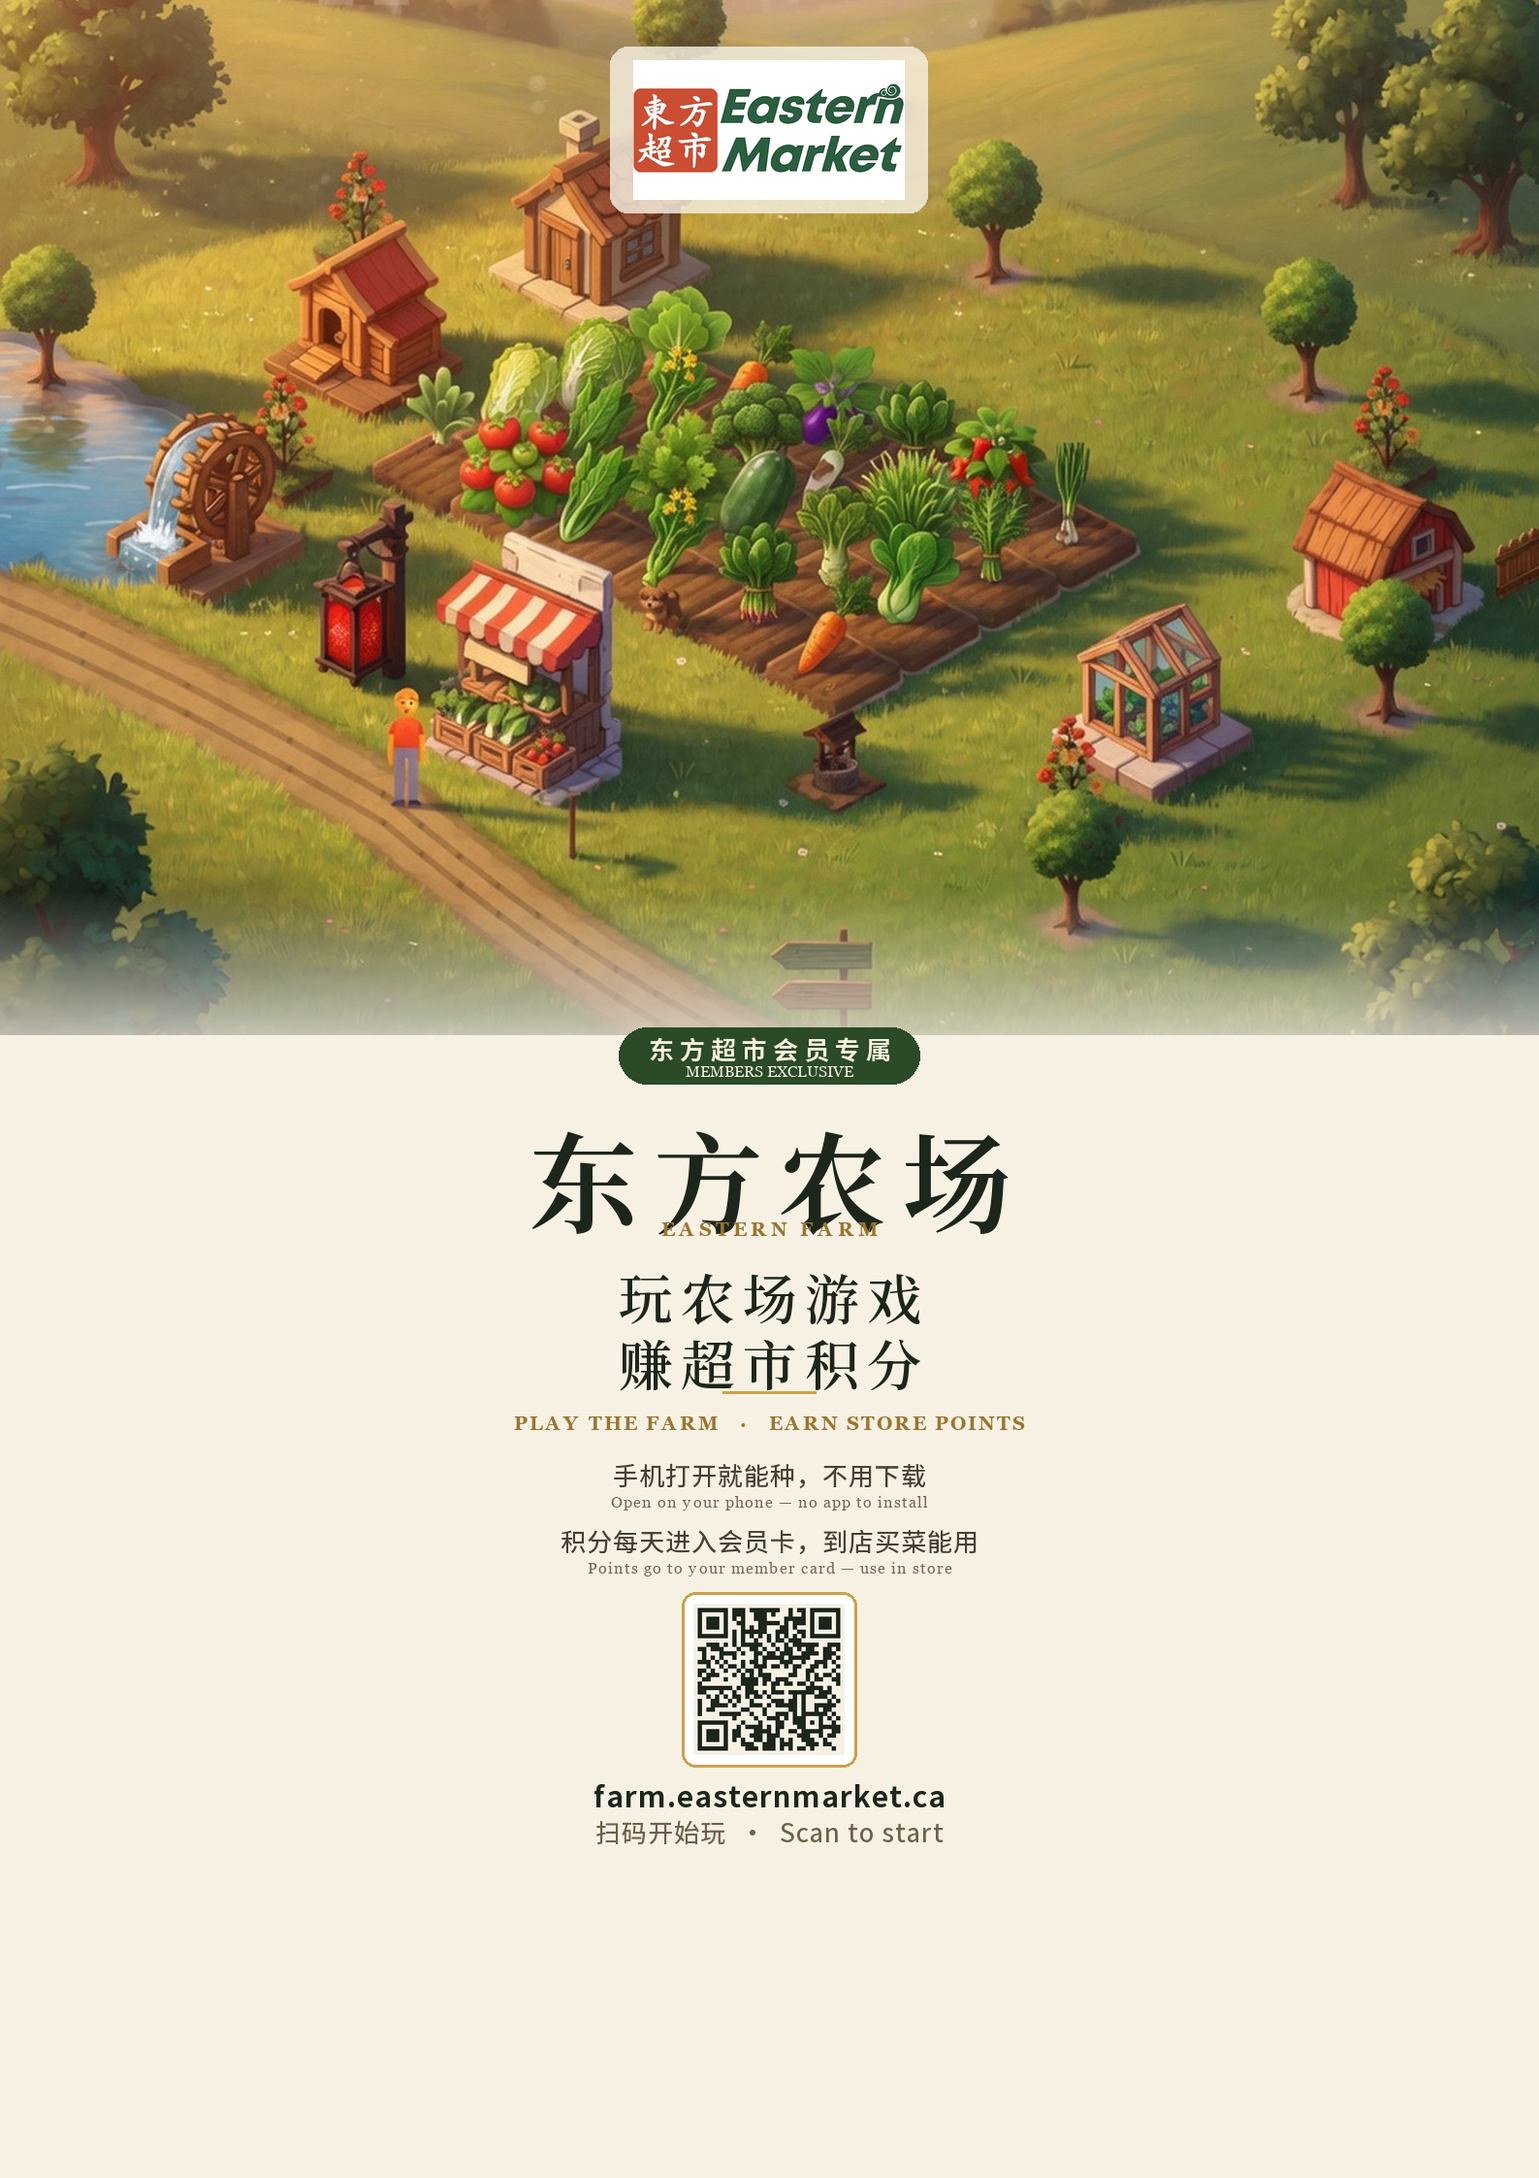
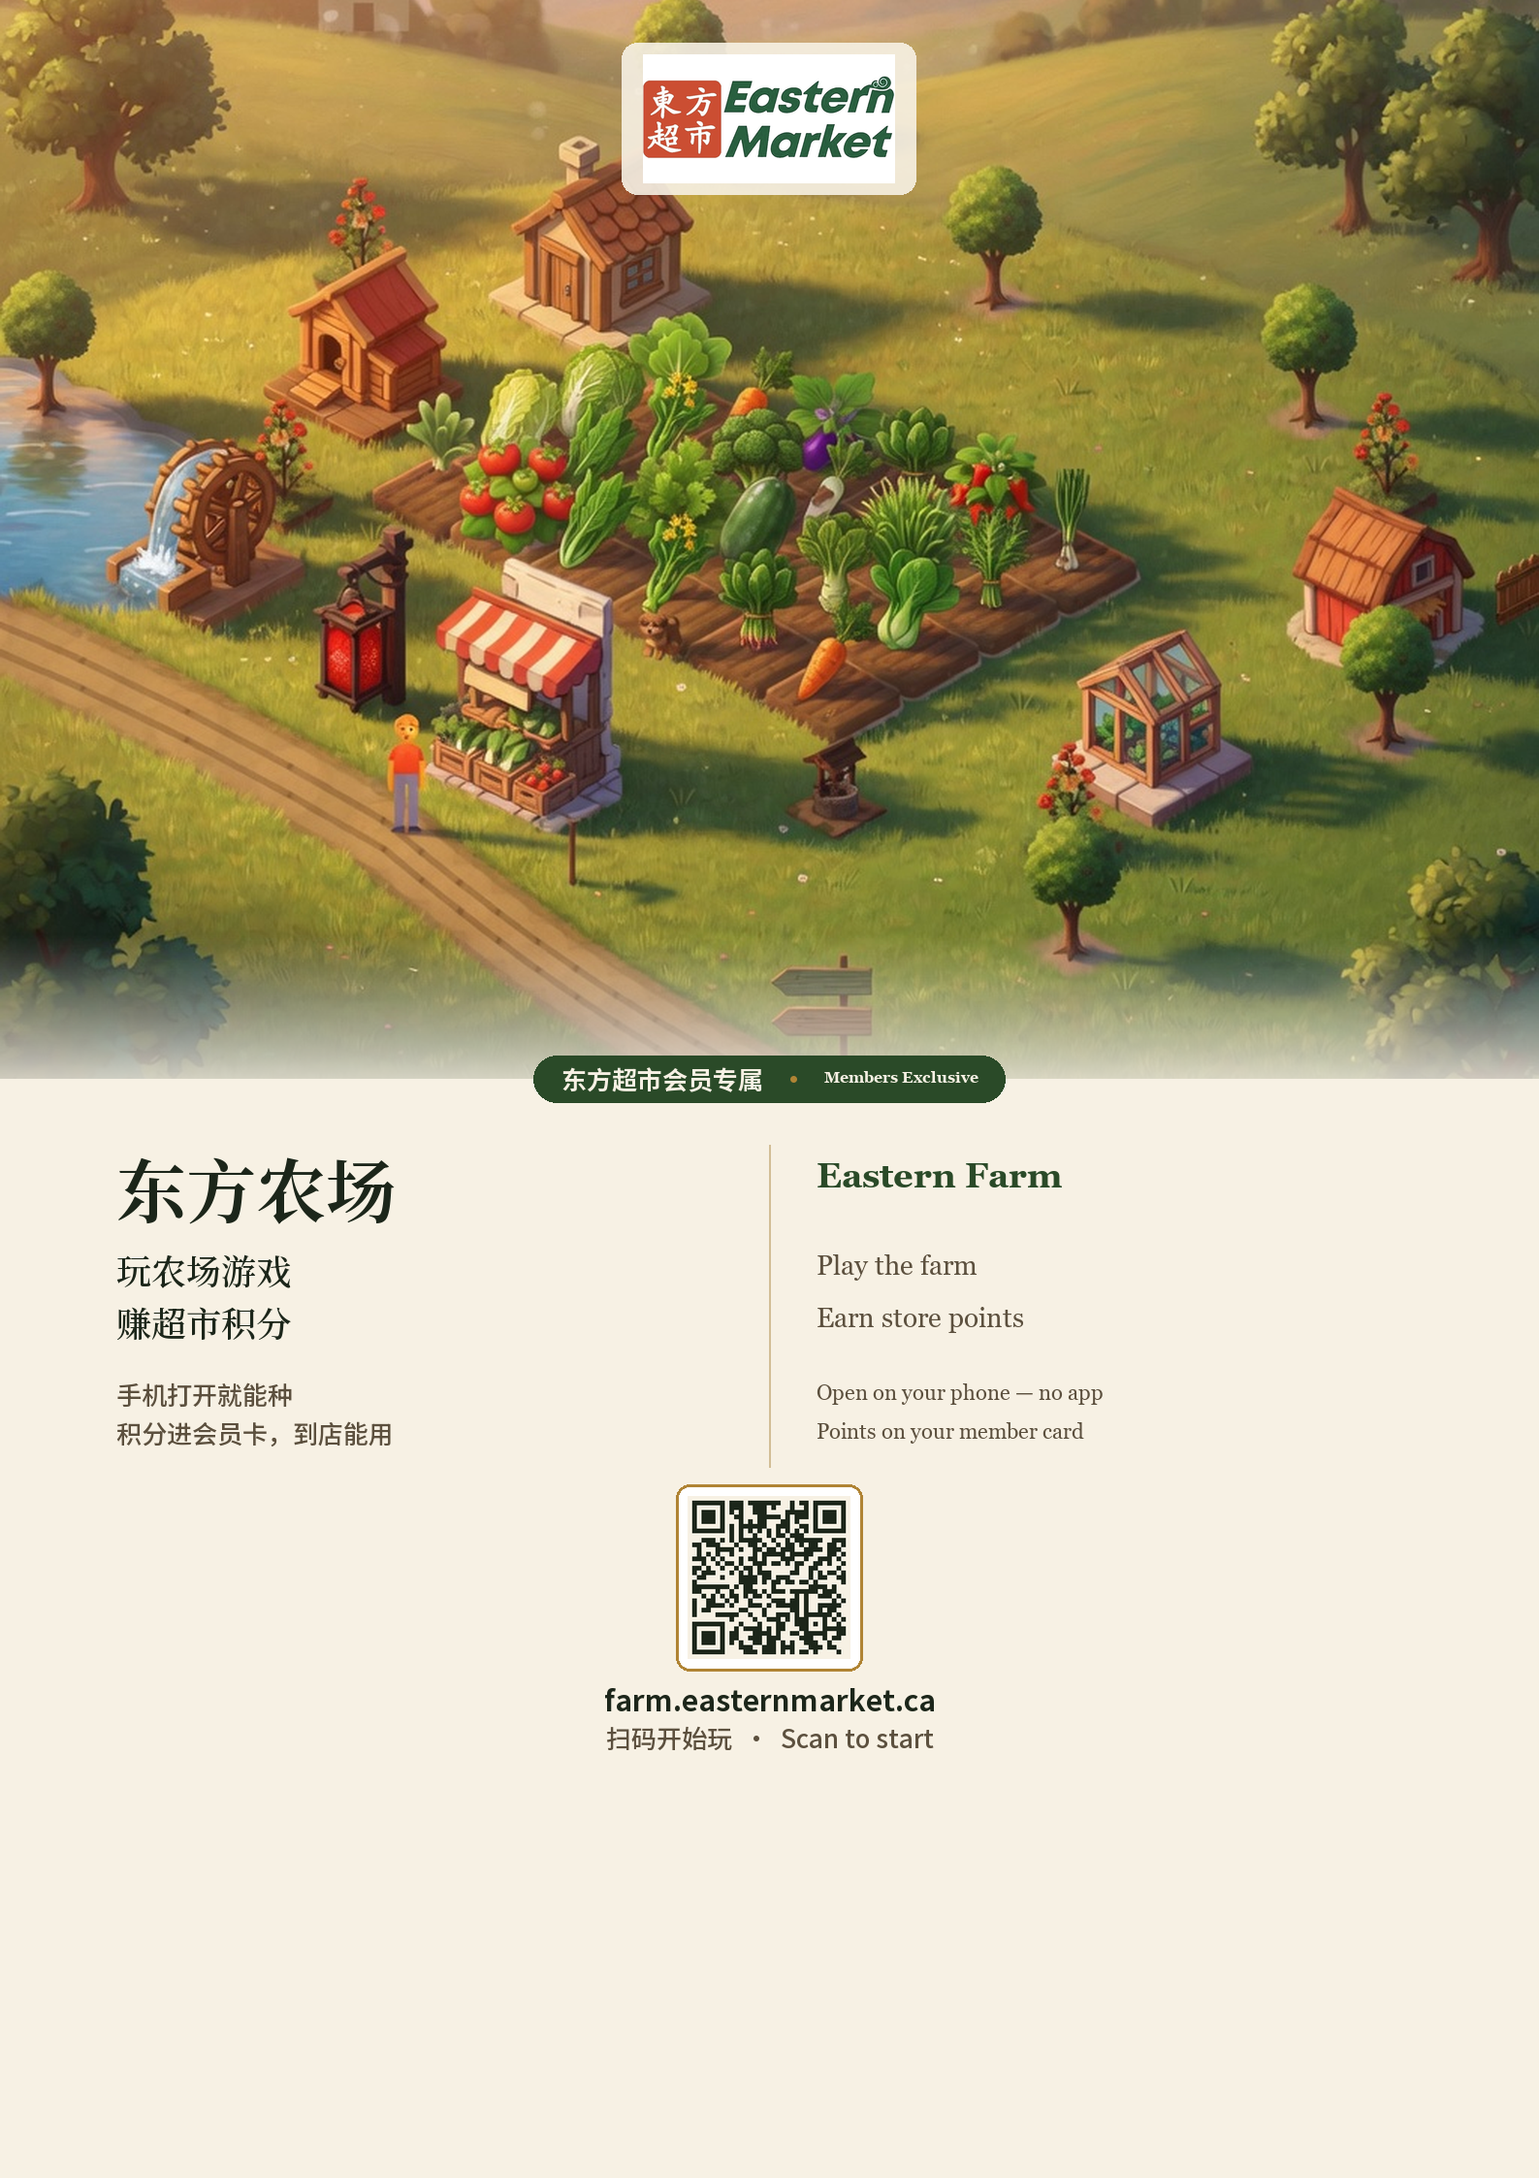
海报双语重排：手机一文一译，A4 中英左右对照

diff --git a/scripts/_make_phone_poster.py b/scripts/_make_phone_poster.py
@@ -1,6 +1,6 @@
 #!/usr/bin/env python3
-"""Editorial phone + A4 posters. Exact copy, painted on the keyart."""
-from PIL import Image, ImageDraw, ImageFont, ImageFilter
+"""Bilingual posters: Chinese and English as designed partners, not stacked subtitles."""
+from PIL import Image, ImageDraw, ImageFont
 import io
 import os
 import segno
@@ -17,11 +17,11 @@ SANS_BD = r'C:\Windows\Fonts\msyhbd.ttc'
 GEORGIA = r'C:\Windows\Fonts\georgiab.ttf'
 GEORGIA_R = r'C:\Windows\Fonts\georgia.ttf'
 
-CREAM = (246, 239, 224)
+CREAM = (247, 241, 228)
 INK = (28, 38, 26)
-GOLD = (201, 162, 74)
-GOLD_SOFT = (212, 184, 122)
-DUSK = (22, 28, 18)
+GOLD = (176, 132, 52)
+FOREST = (42, 74, 40)
+MUTED = (92, 80, 62)
 
 
 def vf(path, size, weight=500, fallback=None):
@@ -46,53 +46,31 @@ def cover(im, tw, th, bias_y=0):
     return im.crop((x, y, x + tw, y + th))
 
 
-def spaced(draw, text, y, font, fill, tracking, canvas_w, shadow=None):
-    widths = []
-    for ch in text:
-        b = draw.textbbox((0, 0), ch, font=font)
-        widths.append(b[2] - b[0])
+def tw(draw, text, font):
+    b = draw.textbbox((0, 0), text, font=font)
+    return b[2] - b[0], b[3] - b[1]
+
+
+def center(draw, text, y, font, fill, canvas_w):
+    w, _ = tw(draw, text, font)
+    draw.text(((canvas_w - w) / 2, y), text, font=font, fill=fill)
+
+
+def spaced_center(draw, text, y, font, fill, tracking, canvas_w):
+    widths = [tw(draw, ch, font)[0] for ch in text]
     total = sum(widths) + tracking * max(0, len(text) - 1)
     x = (canvas_w - total) / 2
     for ch, w in zip(text, widths):
-        if shadow:
-            draw.text((x + shadow[0], y + shadow[1]), ch, font=font, fill=shadow[2])
         draw.text((x, y), ch, font=font, fill=fill)
         x += w + tracking
-    return total
 
 
-def hairline(draw, cx, y, half, color, width=2):
-    draw.line([(cx - half, y), (cx + half, y)], fill=color, width=width)
-
-
-def badge(draw, zh, en, y, zh_font, en_font, canvas_w, fg, bg, tracking=6, pad_x=28, pad_y=8):
-    """Two-line (zh + en) high-contrast pill. Returns y just below it."""
-    widths = []
-    for ch in zh:
-        b = draw.textbbox((0, 0), ch, font=zh_font)
-        widths.append(b[2] - b[0])
-    tw_zh = sum(widths) + tracking * max(0, len(zh) - 1)
-    eb = draw.textbbox((0, 0), en, font=en_font)
-    tw_en = eb[2] - eb[0]
-    zb = draw.textbbox((0, 0), zh[0], font=zh_font)
-    th_zh = zb[3] - zb[1]
-    th_en = eb[3] - eb[1]
-    w = max(tw_zh, tw_en) + pad_x * 2
-    h = th_zh + th_en + pad_y * 2 + 4
-    x = (canvas_w - w) / 2
-    draw.rounded_rectangle([x, y, x + w, y + h], radius=h / 2, fill=bg)
-    spaced(draw, zh, y + pad_y - 2, zh_font, fg, tracking, canvas_w)
-    draw.text(((canvas_w - tw_en) / 2, y + pad_y + th_zh + 2), en, font=en_font, fill=fg)
-    return y + h
-
-
-def make_qr(px, dark='#1c261a', light='#f6efe0'):
+def make_qr(px, dark='#1c261a', light='#f7f1e4'):
     buf = io.BytesIO()
     segno.make('https://farm.easternmarket.ca/', error='h').save(
         buf, kind='png', scale=10, border=1, dark=dark, light=light)
     buf.seek(0)
-    qr = Image.open(buf).convert('RGBA')
-    return qr.resize((px, px), Image.Resampling.LANCZOS)
+    return Image.open(buf).convert('RGBA').resize((px, px), Image.Resampling.LANCZOS)
 
 
 def paste_logo(canvas, w, top, max_w):
@@ -100,66 +78,79 @@ def paste_logo(canvas, w, top, max_w):
     lw = max_w
     lh = int(logo.height * lw / logo.width)
     logo = logo.resize((lw, lh), Image.Resampling.LANCZOS)
-    # soft plate so the mark reads on any sky, without a chunky white card
-    plate = Image.new('RGBA', (lw + 48, lh + 28), (0, 0, 0, 0))
+    plate = Image.new('RGBA', (lw + 44, lh + 24), (0, 0, 0, 0))
     pd = ImageDraw.Draw(plate)
     pd.rounded_rectangle([0, 0, plate.width - 1, plate.height - 1],
-                         radius=18, fill=(246, 239, 224, 210))
-    blurred = plate.filter(ImageFilter.GaussianBlur(0.4))
+                         radius=16, fill=(247, 241, 228, 230))
     px = (w - plate.width) // 2
-    canvas.paste(blurred, (px, top), blurred)
-    canvas.paste(logo, (px + 24, top + 14), logo)
+    canvas.paste(plate, (px, top), plate)
+    canvas.paste(logo, (px + 22, top + 12), logo)
     return top + plate.height
 
 
 def phone():
     W, H = 1080, 1920
-    art = cover(Image.open(ART).convert('RGB'), W, H, bias_y=20).convert('RGBA')
-
-    wash = Image.new('RGBA', (W, H), (0, 0, 0, 0))
-    d = ImageDraw.Draw(wash)
-    for i in range(260):
-        a = int(80 * (1 - i / 260) ** 1.4)
-        d.line([(0, i), (W, i)], fill=(255, 232, 200, a))
-    # 字落在独立的暮色带上，不跟路牌抢
-    band = 840
-    for i in range(band):
-        t = i / (band - 1)
-        a = int(10 + 250 * (t ** 1.15))
-        d.line([(0, H - band + i), (W, H - band + i)], fill=(16, 22, 12, a))
-    canvas = Image.alpha_composite(art, wash)
-    paste_logo(canvas, W, 42, 248)
+    art_h = 1360
+    canvas = Image.new('RGB', (W, H), CREAM)
+    art = cover(Image.open(ART).convert('RGB'), W, art_h + 90, bias_y=30)
+    canvas.paste(art, (0, 0))
+    fade = Image.new('RGBA', (W, H), (0, 0, 0, 0))
+    d = ImageDraw.Draw(fade)
+    for i in range(160):
+        a = int(255 * (i / 159) ** 1.15)
+        d.line([(0, art_h - 70 + i), (W, art_h - 70 + i)], fill=CREAM + (a,))
+    canvas = Image.alpha_composite(canvas.convert('RGBA'), fade)
+    paste_logo(canvas, W, 40, 236)
 
     draw = ImageDraw.Draw(canvas)
-    name = vf(SERIF, 86, 650)
-    title = vf(SERIF, 46, 560)
-    kick_f = vf(SANS, 22, 620, SANS_BD)
-    en = ImageFont.truetype(GEORGIA, 16)
-    en_sm = ImageFont.truetype(GEORGIA_R, 14)
-    meta = vf(SANS, 22, 500, SANS_BD)
-    meta_en = ImageFont.truetype(GEORGIA_R, 15)
-    urlf = vf(SANS, 26, 620, SANS_BD)
+    name = vf(SERIF, 78, 660)
+    line = vf(SERIF, 36, 540)
+    kick_zh = vf(SANS, 22, 650, SANS_BD)
+    kick_en = ImageFont.truetype(GEORGIA, 15)
+    en = ImageFont.truetype(GEORGIA, 18)
+    en_i = ImageFont.truetype(GEORGIA_R, 16)
+    meta = vf(SANS, 24, 560, SANS_BD)
+    urlf = vf(SANS, 24, 650, SANS_BD)
 
-    by = badge(draw, '东方超市会员专属', 'MEMBERS EXCLUSIVE', H - 728, kick_f, en_sm, W, INK, CREAM, tracking=5)
-    spaced(draw, '东方农场', by + 14, name, CREAM, 14, W, shadow=(0, 3, (0, 0, 0, 120)))
-    spaced(draw, 'EASTERN FARM', by + 108, en, GOLD_SOFT, 3, W)
-    spaced(draw, '玩农场游戏', by + 144, title, CREAM, 6, W)
-    spaced(draw, '赚超市积分', by + 200, title, CREAM, 6, W)
-    hairline(draw, W // 2, by + 262, 40, GOLD, 2)
-    spaced(draw, 'PLAY THE FARM   ·   EARN STORE POINTS', by + 278, en, GOLD_SOFT, 2, W)
+    y = art_h + 8
+    # one bilingual kicker, zh · en on one pill
+    kicker = '东方超市会员专属   ·   Members Exclusive'
+    kw, kh = tw(draw, kicker, kick_zh)
+    # measure with mixed fonts roughly via zh font width
+    pad_x, pad_y = 22, 10
+    kw, _ = tw(draw, '东方超市会员专属   ·   Members Exclusive', kick_zh)
+    # tighter: draw as two parts
+    zh_w, zh_h = tw(draw, '东方超市会员专属', kick_zh)
+    mid_w, _ = tw(draw, '  ·  ', kick_zh)
+    en_w, en_h = tw(draw, 'Members Exclusive', kick_en)
+    bw = zh_w + mid_w + en_w + pad_x * 2
+    bh = max(zh_h, en_h) + pad_y * 2
+    bx = (W - bw) / 2
+    draw.rounded_rectangle([bx, y, bx + bw, y + bh], radius=bh / 2, fill=FOREST)
+    cx = bx + pad_x
+    cy = y + pad_y - 2
+    draw.text((cx, cy), '东方超市会员专属', font=kick_zh, fill=CREAM)
+    draw.text((cx + zh_w, cy), '  ·  ', font=kick_zh, fill=GOLD)
+    draw.text((cx + zh_w + mid_w, cy + 3), 'Members Exclusive', font=kick_en, fill=CREAM)
 
-    qr = make_qr(148)
-    qx, qy = 88, H - 236
-    draw.rounded_rectangle([qx - 10, qy - 10, qx + 148 + 10, qy + 148 + 10],
-                           radius=16, fill=CREAM)
+    y = y + bh + 22
+    spaced_center(draw, '东方农场', y, name, INK, 14, W)
+    center(draw, 'Eastern Farm', y + 92, en, GOLD, W)
+    draw.line([(W / 2 - 36, y + 128), (W / 2 + 36, y + 128)], fill=GOLD, width=2)
+    spaced_center(draw, '玩农场游戏，赚超市积分', y + 148, line, INK, 4, W)
+    center(draw, 'Play the farm. Earn store points.', y + 200, en_i, MUTED, W)
+
+    qr = make_qr(132)
+    qy = y + 248
+    qx = 88
+    draw.rounded_rectangle([qx - 8, qy - 8, qx + 132 + 8, qy + 132 + 8],
+                           radius=12, fill=(255, 255, 255), outline=GOLD, width=2)
     canvas.paste(qr, (qx, qy), qr)
-
-    tx = 272
-    draw.text((tx, H - 228), '扫码即玩', font=meta, fill=CREAM)
-    draw.text((tx, H - 200), 'Scan to play', font=meta_en, fill=GOLD_SOFT)
-    draw.text((tx, H - 168), 'farm.easternmarket.ca', font=urlf, fill=GOLD_SOFT)
-    draw.text((tx, H - 128), '积分每天进会员卡，到店可用', font=meta, fill=(214, 206, 188))
-    draw.text((tx, H - 100), 'Points go to your member card daily', font=meta_en, fill=(190, 178, 158))
+    tx = 250
+    draw.text((tx, qy + 6), '扫码即玩  ·  Scan to play', font=meta, fill=INK)
+    draw.text((tx, qy + 44), 'farm.easternmarket.ca', font=urlf, fill=FOREST)
+    draw.text((tx, qy + 82), '积分进会员卡，到店可用', font=meta, fill=MUTED)
+    draw.text((tx, qy + 112), 'Points on your member card', font=en_i, fill=MUTED)
 
     rgb = canvas.convert('RGB')
     rgb.save(OUT_PHONE, 'PNG', optimize=True)
@@ -169,52 +160,70 @@ def phone():
 
 
 def a4():
-    # ~190 dpi A4, matches the previous print size
     W, H = 1587, 2245
-    art_h = int(H * 0.44)
-    canvas = Image.new('RGB', (W, H), (247, 241, 228))
-    art = cover(Image.open(ART).convert('RGB'), W, art_h + 80, bias_y=40)
+    art_h = int(H * 0.46)
+    canvas = Image.new('RGB', (W, H), CREAM)
+    art = cover(Image.open(ART).convert('RGB'), W, art_h + 80, bias_y=36)
     canvas.paste(art, (0, 0))
-
     fade = Image.new('RGBA', (W, H), (0, 0, 0, 0))
     d = ImageDraw.Draw(fade)
-    for i in range(200):
-        a = int(255 * (i / 199) ** 1.1)
-        yy = art_h - 70 + i
-        d.line([(0, yy), (W, yy)], fill=(247, 241, 228, a))
+    for i in range(180):
+        a = int(255 * (i / 179) ** 1.1)
+        d.line([(0, art_h - 70 + i), (W, art_h - 70 + i)], fill=CREAM + (a,))
     canvas = Image.alpha_composite(canvas.convert('RGBA'), fade)
-    paste_logo(canvas, W, 48, 280)
+    paste_logo(canvas, W, 44, 260)
 
     draw = ImageDraw.Draw(canvas)
-    name = vf(SERIF, 112, 660)
-    title = vf(SERIF, 56, 560)
-    kick_f = vf(SANS, 26, 650, SANS_BD)
-    en = ImageFont.truetype(GEORGIA, 20)
-    en_sm = ImageFont.truetype(GEORGIA_R, 16)
-    body = vf(SANS, 26, 450, SANS_BD)
+    name_zh = vf(SERIF, 72, 660)
+    name_en = ImageFont.truetype(GEORGIA, 36)
+    body_zh = vf(SERIF, 36, 540)
+    body_en = ImageFont.truetype(GEORGIA_R, 28)
+    kick_zh = vf(SANS, 26, 650, SANS_BD)
+    kick_en = ImageFont.truetype(GEORGIA, 16)
+    small = vf(SANS, 26, 500, SANS_BD)
     urlf = vf(SANS, 30, 650, SANS_BD)
 
-    y = art_h + 72
-    by = badge(draw, '东方超市会员专属', 'MEMBERS EXCLUSIVE', y, kick_f, en_sm, W, CREAM, (42, 74, 40), tracking=6, pad_x=30, pad_y=9)
-    spaced(draw, '东方农场', by + 16, name, INK, 16, W)
-    spaced(draw, 'EASTERN FARM', by + 138, en, (154, 118, 48), 4, W)
-    spaced(draw, '玩农场游戏', by + 178, title, INK, 8, W)
-    spaced(draw, '赚超市积分', by + 246, title, INK, 8, W)
-    hairline(draw, W // 2, by + 318, 48, GOLD, 3)
-    spaced(draw, 'PLAY THE FARM   ·   EARN STORE POINTS', by + 338, en, (154, 118, 48), 2, W)
-    spaced(draw, '手机打开就能种，不用下载', by + 388, body, (72, 64, 52), 1, W)
-    spaced(draw, 'Open on your phone — no app to install', by + 422, en_sm, (120, 104, 80), 1, W)
-    spaced(draw, '积分每天进入会员卡，到店买菜能用', by + 456, body, (72, 64, 52), 1, W)
-    spaced(draw, 'Points go to your member card — use in store', by + 490, en_sm, (120, 104, 80), 1, W)
+    y = art_h + 56
+    zh_w, zh_h = tw(draw, '东方超市会员专属', kick_zh)
+    mid_w, _ = tw(draw, '   ·   ', kick_zh)
+    en_w, en_h = tw(draw, 'Members Exclusive', kick_en)
+    pad_x, pad_y = 28, 11
+    bw = zh_w + mid_w + en_w + pad_x * 2
+    bh = max(zh_h, en_h) + pad_y * 2
+    bx = (W - bw) / 2
+    draw.rounded_rectangle([bx, y, bx + bw, y + bh], radius=bh / 2, fill=FOREST)
+    draw.text((bx + pad_x, y + pad_y - 2), '东方超市会员专属', font=kick_zh, fill=CREAM)
+    draw.text((bx + pad_x + zh_w, y + pad_y - 2), '   ·   ', font=kick_zh, fill=GOLD)
+    draw.text((bx + pad_x + zh_w + mid_w, y + pad_y + 2), 'Members Exclusive', font=kick_en, fill=CREAM)
 
-    qr = make_qr(156, dark='#1c261a', light='#f7f1e4')
-    qx = (W - 156) // 2
-    qy = by + 536
-    draw.rounded_rectangle([qx - 12, qy - 12, qx + 156 + 12, qy + 156 + 12],
+    # two equal columns — ZH left, EN right
+    mid = W / 2
+    left = 120
+    right = mid + 48
+    col_top = y + bh + 36
+    draw.line([(mid, col_top + 8), (mid, col_top + 340)], fill=(210, 190, 150), width=2)
+
+    draw.text((left, col_top), '东方农场', font=name_zh, fill=INK)
+    draw.text((right, col_top + 18), 'Eastern Farm', font=name_en, fill=FOREST)
+
+    draw.text((left, col_top + 110), '玩农场游戏', font=body_zh, fill=INK)
+    draw.text((left, col_top + 164), '赚超市积分', font=body_zh, fill=INK)
+    draw.text((right, col_top + 116), 'Play the farm', font=body_en, fill=MUTED)
+    draw.text((right, col_top + 170), 'Earn store points', font=body_en, fill=MUTED)
+
+    draw.text((left, col_top + 250), '手机打开就能种', font=small, fill=MUTED)
+    draw.text((left, col_top + 290), '积分进会员卡，到店能用', font=small, fill=MUTED)
+    draw.text((right, col_top + 250), 'Open on your phone — no app', font=en_i if False else ImageFont.truetype(GEORGIA_R, 22), fill=MUTED)
+    draw.text((right, col_top + 290), 'Points on your member card', font=ImageFont.truetype(GEORGIA_R, 22), fill=MUTED)
+
+    qr = make_qr(168)
+    qx = int((W - 168) / 2)
+    qy = col_top + 370
+    draw.rounded_rectangle([qx - 12, qy - 12, qx + 168 + 12, qy + 168 + 12],
                            radius=14, fill=(255, 255, 255), outline=GOLD, width=3)
     canvas.paste(qr, (qx, qy), qr)
-    spaced(draw, 'farm.easternmarket.ca', qy + 180, urlf, INK, 1, W)
-    spaced(draw, '扫码开始玩  ·  Scan to start', qy + 220, body, (110, 96, 72), 1, W)
+    center(draw, 'farm.easternmarket.ca', qy + 192, urlf, INK, W)
+    center(draw, '扫码开始玩  ·  Scan to start', qy + 234, small, MUTED, W)
 
     rgb = canvas.convert('RGB')
     rgb.save(OUT_A4, 'PNG', optimize=True)
